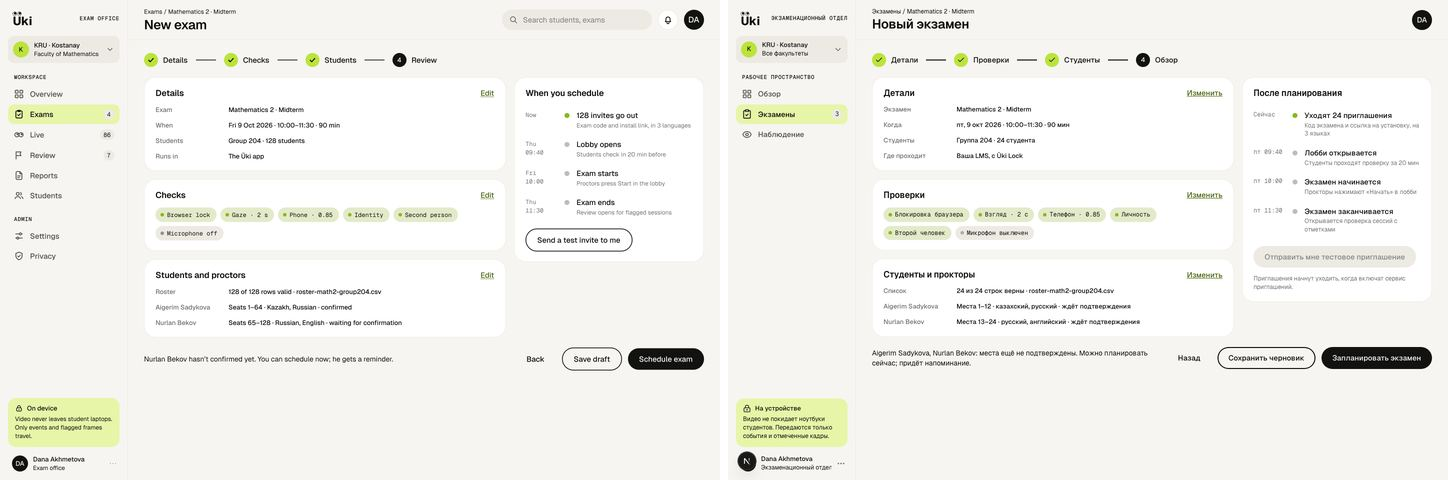
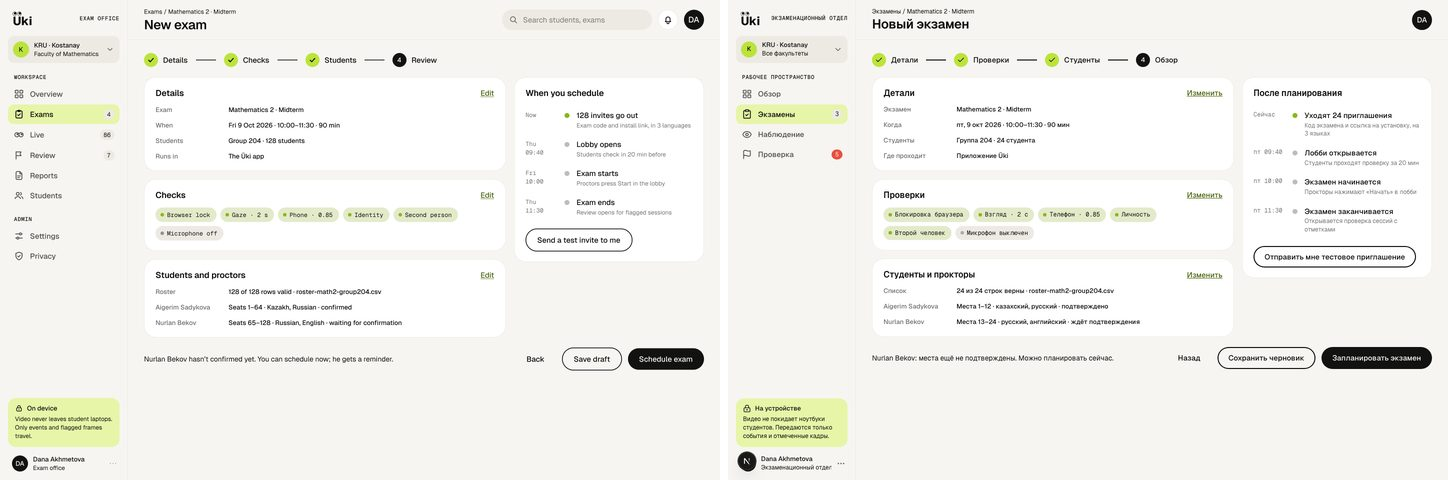
docs: 1.3 evidence with the invites on, and the decisions they needed
Records the checks on main at ad8db6b: the test invite, the send after
Schedule exam, Resend and the 0.3b resend through the Resend stub; the
hidden reminder line; untitled drafts off 0.1; 0.1's roster link. New
comparisons: 0.5 and 0.5 in Russian again, 0.3 scheduled and after a
refused send, 0.3b after Save, 0.1 with the link, in Russian and after
a failed send.

diff --git a/docs/phase-1-exit.md b/docs/phase-1-exit.md
@@ -290,41 +290,55 @@ Branch `wp/1.9-report-sharing` (PR #21), built on the evening of 8 October again
 
 ## 1.3 Exam wizard
 
-Branch `wp/1.3-wizard` (PR #16, draft while the package runs to Sunday 11). Ran on the development MacBook against a third local Supabase stack, project `uki-w13` on ports 548xx with CLI 2.107.0, and `next dev` on port 3401, so the main stack on 547xx stayed untouched. The Figma comparisons put the frame on the left and the page on the right, both at 1440 × 960, scaled to half. The page shows the local stack's data: the demo roster has 24 students where the frames show 128, and only built sidebar items show. Every other difference is listed in the evidence column and logged in `docs/decisions.md` under “1.3 Exam wizard”.
+Branch `wp/1.3-wizard` (PR #16). Rebased onto main at ad8db6b (WP 1.4 Invites) and checked again on the development MacBook against a third local Supabase stack, project `uki-w13` on ports 548xx with CLI 2.107.0 and supabase-edge-runtime 1.74.1, so the main stack on 547xx stayed untouched. `supabase functions serve` loaded an env file whose `RESEND_BASE_URL` pointed at the Resend stub on port 54890, and the integration tests, the e2e and the screenshot run started that stub (`test/integration/resend-stub.ts`): no email left the machine. `next dev` ran on port 3401. The Figma comparisons put the frame on the left and the page on the right, both at 1440 × 960, scaled to half. The page shows the local stack's data: the demo roster has 24 students where the frames show 128, and only built sidebar items show. Every other difference is listed in the evidence column and logged in `docs/decisions.md` under “1.3 Exam wizard”.
 
 | Check | Status | Evidence | Date |
 | --- | --- | --- | --- |
 | Routes `/exams/new` and `/exams/[examId]/edit/{details,checks,browser,roster,review}` with one draft row from step 1 | pass | Thin pages under `apps/web/src/app/(app)/exams/`; logic in `apps/web/src/features/wizard/` (`wizard-data.ts`, `wizard-model.ts`, `roster-csv.ts`, the views). A proctor gets a 404, a scheduled exam only its roster page, a live one its lobby (`allowedStep`, unit-tested) | 2026-10-08 |
 | Every step saves; a refresh loses nothing | pass | `e2e/wizard.spec.ts`: Identity check switched off on 0.2 is in `exams.checks` and still off after a reload; Back to 0.4 shows the title typed before | 2026-10-08 |
 | The demo CSV shows its bad rows on 0.3a and nothing is written | pass | `demo/roster.csv`: 24 students of group 204 from the seed, six with 0.3a's problems (a 7-digit number, an empty group, an unknown group 240, an address without @, a number twice, an empty name). e2e and `wizard-views.test.tsx` see the six rows with their messages and no `exam_students` row | 2026-10-08 |
-| Fixed through Edit (0.3b's panel), then imported; importing twice adds no duplicates | pass | e2e: the six fixes import 24 students; the fixed file imported again leaves 24 roster rows, and both `roster.import` audit rows read inserted 0, updated 24, seats 24, removed 0. `15_wizard_1_3` imports the same 24 twice | 2026-10-08 |
+| Fixed through Edit (0.3b's panel), then imported; importing twice adds no duplicates | pass | e2e: the six fixes import 24 students; the fixed file imported again leaves 24 roster rows, and both `roster.import` audit rows read inserted 0, updated 24, seats 24, removed 0. `16_wizard_1_3` imports the same 24 twice | 2026-10-08 |
 | Proctors: `assign_proctors`, gaps and overlaps refused | pass | e2e: Aigerim 1–12 and Nurlan 13–24 stored; moving Nurlan to 10 shows "Seats 10–12 are given to two proctors." and nothing changes. Unit tests for `seatProblem`, `parseSeatError`, `nextSeatRange` | 2026-10-08 |
-| `assign_proctors` works through PostgREST | pass | Found while building 0.3: the API refused it ("DELETE requires a WHERE clause", pg-safeupdate). New migration `20261010010000_assign_proctors_safeupdate.sql`; `15_wizard_1_3` checks no function in `public` deletes without WHERE | 2026-10-08 |
+| `assign_proctors` works through PostgREST | pass | Found while building 0.3: the API refused it ("DELETE requires a WHERE clause", pg-safeupdate). Migration `20261011090000_assign_proctors_safeupdate.sql` (renamed from `20261010010000_…` before the merge, so it sorts after main's `20261010060000_help_topics.sql`); `16_wizard_1_3` checks no function in `public` deletes without WHERE | 2026-10-08 |
 | Schedule exam returns to 0.1 with a code; errors link to their step | pass | e2e: the toast reads "Exam scheduled. Students join with the code MATH2-204-FRI2." (MATH2-204-FRI is the seed's) and the exam is `scheduled` with that code. `wizard-views.test.tsx`: `roster_empty` shows with a link to the Students step | 2026-10-08 |
-| Timed: New exam to the code | pass (automated) | e2e 12.6 s with every step, both imports and the overlap check (6.6 s on an idle host). The exit criterion's 5 minutes by hand is the next row | 2026-10-08 |
+| Schedule exam sends every invite through `send-invites` | pass | e2e: the stub receives one batch of 24 emails, one to each address of the fixed demo file, each with the code in its text; all 24 `invites` rows are `sent`; 0.1 shows no "did not go out" toast | 2026-10-08 |
+| Invites that did not go out are counted on 0.1 and lead to the roster | pass | With the stub refusing the batch (422): 0.1 shows "24 invites did not go out. The roster says why." with Open roster, which opens the exam's 0.3 at Needs a fix · 24, each row Not sent · error with Fix email (comparisons below). `parseScheduledNotice` and `scheduledHref` unit-tested, including a forged query string | 2026-10-08 |
+| Send a test invite (0.5) | pass | e2e: one email, to Dana's sign-in address only, with the exam's title in the subject; every invite of the exam is still `pending`. The button is disabled with its reason on an empty roster (send-invites writes the test for seat 1), and a failed send says so (`wizard-views.test.tsx`) | 2026-10-08 |
+| Resend (0.3) | pass | e2e: Resend on Aigerim Baimukhanova's sent invite: exactly one more email, to her address; the toast reads "The invite went out again to Aigerim Baimukhanova." A refused resend says so (`wizard-views.test.tsx`) | 2026-10-08 |
+| A bounced address fixed through 0.3b is resent | pass | e2e, on the scheduled exam: Kairat's invite set to `bounced` (the webhook is Phase 2), Fix email with the scheduled helper, Save: one email to the new address, the invite `sent` with it, the row Sent · not opened | 2026-10-08 |
+| The seeded bounced address, reached from 0.1, fixed through 0.3b and resent | pass (local) | Screenshot run on `uki-w13`: 0.1's readiness card for Mathematics 2 reads "Roster 127 of 128" and "Fix 1 address" (exam office only, `overview-view.test.tsx`); it opens Mathematics 2's roster; Yerlan Tokhtarov's Fix email saves `yerlan.tokhtarov@student.kru.test` and the stub receives his invite; the row reads Sent · not opened and Needs a fix · 0 (comparison below) | 2026-10-08 |
+| The same with real email, in your inbox | pending | You, on the cloud project after `pnpm supabase:deploy` and the secrets in `docs/runbooks/cloud-setup.md` (WP 1.4's hand check): a test invite from 0.5, then the seeded bounced address fixed from 0.1 | |
+| 0.5 promises no reminder | pass | The footer reads "Nurlan Bekov hasn’t confirmed yet. You can schedule now." in English and "…Можно планировать сейчас." in Russian; no reminder email exists in Phase 1 (decisions). `wizard-views.test.tsx` checks the line and that no "reminder" shows | 2026-10-08 |
+| Untitled drafts stay off 0.1 | pass | `overview-model.test.ts`: a draft with an empty title is left out, a titled draft and a scheduled exam stay. Screenshot run: New exam, then back to 0.1: the same five rows and Upcoming 2 | 2026-10-08 |
+| Timed: New exam to the code | pass (automated) | e2e 6.2 s with every step, both imports, the overlap check and the test invite; 8.3 s for the whole test with 0.3b and Resend. The exit criterion's 5 minutes by hand is the next row | 2026-10-08 |
 | The exam office creates and schedules an exam by hand in under 5 minutes | pending | You, on the cloud project after the deploy, with `demo/roster.csv` | |
-| Send a test invite (0.5), Resend (0.3), the resend after 0.3b | not-run | `send-invites` is WP 1.4 (Saturday). The calls are wired to the plan's input and disabled with their reason while `SEND_INVITES_READY` is false (`wizard-views.test.tsx`) | 2026-10-08 |
-| 0.3b on the seeded bounced address | pass (local) | Mathematics 2's Yerlan Tokhtarov opens "Fix Yerlan’s email" with "This mailbox doesn’t exist." and the old address struck through (comparison below). Save upserts the invite to `pending`; resending waits for WP 1.4 | 2026-10-08 |
 | New exam for the exam office on 0.1; Phase 2's 0.6 and 0.7 stay hidden | pass | `overview-view.test.tsx`: New exam shows for the exam office and not for a proctor; a draft's row opens its wizard for the office. Import CSV stays hidden; no exam detail (0.6) or question bank (0.7) link exists. The Exams item is current on the wizard's routes (`activeNav`) | 2026-10-08 |
-| Every wizard page renders in Russian with no missing key | pass | `apps/web/src/features/wizard/wizard-views.test.tsx` (14 tests, 7 in Russian): 0.4 with the date picker open, 0.2 with 0.2a and the preview in Kazakh, E.1, 0.3 with 0.3b, 0.3a with Edit open, Add proctor, 0.5 with a schedule problem. Each fails on any next-intl error or raw key | 2026-10-08 |
-| Unit tests | pass | `wizard-model.test.ts` 31 (steps, Almaty dates, choices, proctors, invites, review, the code), `roster-csv.test.ts` 10 (headers, BOM, no header, no language column, limits, the demo file's six problems and their fixes, Skip, the error report) | 2026-10-08 |
-| A clean reset with the new migration | pass | `supabase db reset --workdir` on `uki-w13`: 13 Phase 0 migrations, `20261009000000_phase1.sql`, `20261010010000_assign_proctors_safeupdate.sql`, then `seed.sql`, no error | 2026-10-08 |
-| pgTAP 01 to 15 | pass | `supabase test db` on `uki-w13`: 15 files, 767 tests; `15_wizard_1_3` adds 10 | 2026-10-08 |
-| `pnpm check` | pass | Exit 0: Biome 803 files, guards 832 files, turbo 22/22 tasks (web 245 tests, 35 files), functions-unit 61, scripts 83 | 2026-10-08 |
-| `pnpm test:integration` against the third stack | pass | 16 files, 86 tests, with `supabase functions serve` on `uki-w13` | 2026-10-08 |
-| `pnpm e2e` | pass | 6/6 against `next dev -p 3401` and `uki-w13` (4 Phase 0 tests, the language test, the wizard) | 2026-10-08 |
-| CI on the pull request | pass (draft) | Push run 37775975035 at 560da48: every job passed (lint, guards, types and unit tests; database, functions, desktop flow and dashboard e2e with `15_wizard_1_3` and `e2e/wizard.spec.ts`, New exam to the code in 23.8 s on the runner; the builds; the macOS dmgs; Windows; the secret scan). The pull-request run at 813639f had one unit test time out at Vitest's 5 s default on the loaded runner (0.4 with the date picker); the view tests now allow 30 s. Vercel's two previews are rate-limited by the Vercel account, outside this change. Merge waits for Sunday | 2026-10-08 |
-| The cloud project has the new migration | pending | `pnpm supabase:deploy` after the merge (P.2) | |
+| Every wizard page renders in Russian with no missing key | pass | `apps/web/src/features/wizard/wizard-views.test.tsx` (19 tests, 9 in Russian): 0.4 with the date picker open, 0.2 with 0.2a and the preview in Kazakh, E.1, 0.3 with 0.3b, 0.3a with Edit open, Add proctor, 0.5 with a schedule problem, 0.1 after Schedule exam with invites that did not go out and the roster link, and 0.3's Resend toast. Each fails on any next-intl error or raw key | 2026-10-08 |
+| The wizard's schemas come from `@uki/contracts` | pass | `features/wizard/send-invites.ts` and `SEND_INVITES_READY` are gone; `SendInvitesInput` and `SendInvitesOutput` (WP 1.4), `FixInviteEmailInput` and `ResendInviteInput` (`wizard.ts`, tested in `wizard.test.ts`) check each call before it leaves and each reply | 2026-10-08 |
+| Unit tests | pass | `wizard-model.test.ts` 32 (steps, Almaty dates, choices, proctors, invites, review, the code, the scheduled notice), `roster-csv.test.ts` 10, `overview-model.test.ts` 15, `overview-view.test.tsx` 8 | 2026-10-08 |
+| A clean reset with the renamed migration | pass | `supabase db reset --workdir` on `uki-w13`: 13 Phase 0 migrations, `20261009000000_phase1.sql`, `20261010060000_help_topics.sql`, `20261011090000_assign_proctors_safeupdate.sql`, then `seed.sql`, no error | 2026-10-08 |
+| pgTAP 01 to 16 | pass | `supabase test db` on `uki-w13`: 16 files, 781 tests; `16_wizard_1_3` adds 10 | 2026-10-08 |
+| `pnpm check` | pass | Exit 0: Biome 865 files, guards 899 files, turbo 22/22 tasks (contracts 455 tests, web 310), functions-unit 97, scripts 83 | 2026-10-08 |
+| `pnpm test:integration` against the third stack | pass | 21 files, 137 tests, with `supabase functions serve` on `uki-w13` and the stub on 54890 (`UKI_FUNCTIONS_ENV_FILE`) | 2026-10-08 |
+| `pnpm e2e` | pass | 9/9 against `next dev -p 3401` and `uki-w13`: the 4 dashboard tests, help, language, the 2 review tests and the wizard | 2026-10-08 |
+| CI on the pull request | see the PR | | |
+| The cloud project has the migration | pending | `pnpm supabase:deploy` after the merge (P.2) | |
 | Figma 0.4 `158:12473` (details, date picker open) | pass | ![0.4](evidence/phase-1/1.3/0.4.jpg) Same cards, fields, chips, radio cards, At a glance and picker. Differences: the picker's footer time is a typed field; search and bell hidden (Phase 0) | 2026-10-08 |
 | Figma 0.4 in Russian | pass | ![0.4 ru](evidence/phase-1/1.3/0.4-ru.jpg) Fits; the month reads «Октябрь 2026 г.» from Intl | 2026-10-08 |
 | Figma 0.2 `51:2048` (checks) | pass | ![0.2](evidence/phase-1/1.3/0.2.jpg) Same rows, thresholds, preview and privacy card. Differences: the gaze, phone and second-person switches are fixed and drawn disabled; the preview lines are the app's own 1.4 strings; the browser-lock icon is the kit's GlobeLock | 2026-10-08 |
 | Figma 0.2a `85:6315` (gaze threshold info) | pass | ![0.2a](evidence/phase-1/1.3/0.2a.jpg) Popover/Info over the gaze field with Strict, Default and Calm. "How gaze control works" is hidden (no page) | 2026-10-08 |
 | Figma E.1 `99:10209` (browser rules) | pass | ![E.1](evidence/phase-1/1.3/E.1.jpg) Same sections, chips, rules card and Lock popup. Differences: developer tools and screen sharing are fixed with Phase 0's labels; Pause other extensions, the popup's Other extensions row and Test as a student are hidden (Phase 2, Phase 0, no Phase 1 path) | 2026-10-08 |
 | Figma 0.3 `51:2050` (roster and proctors) | pass | ![0.3](evidence/phase-1/1.3/0.3.jpg) Same file card, proctors card and table. Differences: 24 rows; the third tab is Needs a fix; chips read Not sent before the invites go out and Not confirmed until 0.9a | 2026-10-08 |
+| Figma 0.3 on the scheduled exam | pass | ![0.3 scheduled](evidence/phase-1/1.3/0.3-scheduled.jpg) After Schedule exam, with one invite set to bounced: Sent · not opened chips with Resend, Email bounced with Fix email, as the frame draws them. Differences: Opened never shows (opens are not tracked); the demo file's new students have no programme line | 2026-10-08 |
+| Figma 0.3 after a refused send | pass | ![0.3 failed](evidence/phase-1/1.3/0.3-failed.jpg) Reached from 0.1's Open roster: Needs a fix · 24, each row Not sent · error with Fix email. No frame draws a failed send | 2026-10-08 |
 | Figma 0.3a `160:12932` (roster errors) | pass | ![0.3a](evidence/phase-1/1.3/0.3a.jpg) Same error card, rows, actions and disabled Next: review. Difference: each bad row has Edit (the plan's 0.3b panel) | 2026-10-08 |
 | Figma 0.3a in Russian | pass | ![0.3a ru](evidence/phase-1/1.3/0.3a-ru.jpg) | 2026-10-08 |
 | Figma 0.3b `160:13301` (fix email) | pass | ![0.3b](evidence/phase-1/1.3/0.3b.jpg) On the seeded Mathematics 2, searched to Yerlan's row: same panel, struck address, field, helper, checkbox and buttons. The helper is the scheduled exam's | 2026-10-08 |
-| Figma 0.5 `159:12771` (review) | pass | ![0.5](evidence/phase-1/1.3/0.5.jpg) Same three summaries, chips, timeline and footer. Differences: the test invite is disabled with its reason (WP 1.4); the footer names every unconfirmed proctor | 2026-10-08 |
-| Figma 0.5 in Russian | pass | ![0.5 ru](evidence/phase-1/1.3/0.5-ru.jpg) | 2026-10-08 |
+| Figma 0.3b, after Save on the seeded bounced address | pass | ![0.3b resent](evidence/phase-1/1.3/0.3b-resent.jpg) Frame left with the panel open; page right after Save: Yerlan's invite went out again and his row reads Sent · not opened with Resend | 2026-10-08 |
+| Figma 0.5 `159:12771` (review) | pass | ![0.5](evidence/phase-1/1.3/0.5.jpg) Compared again with the invites on: same three summaries, chips, timeline, the enabled Send a test invite to me and the footer's buttons. Difference: the footer ends at "You can schedule now." (no reminder in Phase 1); the frame's lobby time reads Thu, the exam's day is Fri | 2026-10-08 |
+| Figma 0.5 in Russian | pass | ![0.5 ru](evidence/phase-1/1.3/0.5-ru.jpg) The test invite button fits on one line | 2026-10-08 |
+| Figma 0.1 `51:2046` with the roster link | pass | ![0.1](evidence/phase-1/1.3/0.1.jpg) The readiness card counts Yerlan's bounced invite (127 of 128) and ends with "Fix 1 address →", drawn like Open lobby; the card keeps its height. Not in the frame, whose roster is complete (decisions). Import CSV stays hidden | 2026-10-08 |
+| Figma 0.1 in Russian | pass | ![0.1 ru](evidence/phase-1/1.3/0.1-ru.jpg) «Исправить 1 адрес» fits | 2026-10-08 |
+| Figma 0.1 after a send that failed | pass | ![0.1 unsent](evidence/phase-1/1.3/0.1-unsent.jpg) The code toast and, under it, the error toast with Open roster, the kit's Toast with its action | 2026-10-08 |
 
-Left for Saturday and Sunday: turn on the invite calls with WP 1.4's `send-invites` and check the test invite and the 0.3b resend; the timed run by hand on the cloud project; CI and the merge.
+WP 1.4's open row "0.5, 0.3 and 0.3b call `send-invites`" is answered by the rows above. Left for you: the timed run by hand and the real inbox, both on the cloud project after the deploy.

diff --git a/docs/decisions.md b/docs/decisions.md
@@ -944,8 +944,19 @@ Decided by the WP 1.3 agent while building 0.4, 0.2, 0.2a, E.1, 0.3, 0.3a, 0.3b 
 - Reading the roster writes one `audit_log` row (`roster.view` on the exam) through `audit_read`.
 
 **send-invites (WP 1.4)**
-- Send a test invite (0.5), Resend (0.3) and the resend after 0.3b's Save call `send-invites` with the plan's input (`exam_id`, optional `student_ids[]`, or `test: true`) and read `sent` and `failed[]`. The function does not exist yet, so `SEND_INVITES_READY = false` in `features/wizard/wizard-model.ts` keeps them disabled with "Invites go out once the invite service is switched on." WP 1.4 turns the flag on and moves the schemas from `features/wizard/send-invites.ts` into `packages/contracts`; Schedule exam then also sends the invites.
-- 0.5's footer for an unconfirmed proctor keeps the frame's promise of a reminder, worded without a pronoun ("they get a reminder"). No reminder email is built in Phase 1; WP 1.4 or 1.5 should either send one or the line should change.
+- The wizard calls WP 1.4's `send-invites` as the signed-in exam office member, with `SendInvitesInput` and `SendInvitesOutput` from `@uki/contracts`. `SEND_INVITES_READY` and the wizard's own copy of those schemas (`features/wizard/send-invites.ts`) are gone, so nothing can switch the invites off again by mistake. 0.3b's input and the Resend input are contracts too (`FixInviteEmailInput`, `ResendInviteInput` in `wizard.ts`). The PostgREST row shapes the wizard reads (`RosterEntry`, `WizardGroup`, `WizardProctor`) stay next to their queries, as every other dashboard feature keeps its rows.
+- Send a test invite (0.5) sends `{ exam_id, test: true }`. send-invites writes it for the roster's first student and answers 409 on an empty roster, so the button is disabled until the roster has a student, with "The test invite is written for the first student, so it waits for the roster." (`review.testInviteNeedsRoster`, a new key in place of `review.invitesUnavailable`). The toast says sent only when the reply has one email sent and nothing failed.
+- Schedule exam runs `schedule_exam`, then `send-invites` with `{ exam_id }`, then returns to 0.1. The exam stays scheduled whatever the send does. The action then counts the exam's invites that are not `sent` (under RLS, so a call that failed as a whole counts every invite) and, when there are any, 0.1's address carries `&exam=<id>&unsent=<n>`: a second toast says "N invites did not go out. The roster says why." with Open roster, which opens 0.3 for that exam, where each such row reads Not sent · error or Email bounced and has Fix email. New keys: `overview.unsent`, `overview.openRoster`. The query string is checked (`parseScheduledNotice`): the code with the contracts' `ExamCode`, the exam with `Uuid`, the count as a whole number up to the roster limit.
+- 0.3's Resend sends `{ exam_id, student_ids: [id] }` (`resendInvite`) and says the outcome in a toast (`roster.resent`, `roster.resendFailed`, new keys); the row's chip follows after the refresh.
+- 0.3b's Save puts the invite back to `pending` with the new address (as before), and on a scheduled exam then calls send-invites with that student's id, so the fixed address gets its invite at once; the row then reads Sent · not opened, or Not sent · error with the reason. A draft's invite waits for Schedule exam.
+- **0.1 links a bounced invite to its roster.** A scheduled exam opens only its roster page in the wizard, but no frame leads there, so the exit criterion's "the seeded bounced address is fixed through 0.3b and resent" had no way in except the address bar. 0.1's readiness card already counts the next exam's bounced invites ("Roster 127 of 128"); for the exam office it now ends with "Fix 1 address →" to that exam's roster, drawn like the next-exam card's Open lobby, only while an invite has bounced (`wizard.overview.fixRoster`, a new key; added, not in Figma). Proctors do not get it: the wizard is the exam office's.
+
+**0.5's footer and the reminder**
+- **The reminder promise is hidden.** 0.5's footer for an unconfirmed proctor read "…You can schedule now; they get a reminder." No reminder email exists in Phase 1 (send-invites mails students only, and WP 1.5's 0.9a has no reminder), so the line now ends at "You can schedule now." (`review.footerWaiting`, in English and Russian). The frame's ", he gets a reminder" returns when a reminder is built, in Phase 2 at the earliest.
+
+**Untitled drafts on 0.1**
+- New exam makes the draft before 0.4 has a title, so a draft the exam office leaves at once would be a row on 0.1 with no name, no course and no groups, linking to a wizard nobody remembers. 0.1 leaves a draft with an empty title out of the table and the Upcoming count (`shownOnOverview`, applied where the rows are parsed, so the sidebar's counts agree). A draft shows again once it has a title. The empty drafts stay in the database; seed v2's `pnpm demo:reset` (WP 1.14) is to delete the exams the wizard made, these included.
 
 **Database**
-- `assign_proctors` emptied its scratch table with a bare `DELETE`, which PostgREST's pg-safeupdate refuses, so the dashboard could never save a proctor; pgTAP did not see it because it runs outside PostgREST. `20261010010000_assign_proctors_safeupdate.sql` replaces the function with `where true` on that statement and nothing else. `15_wizard_1_3` checks that no function in `public` deletes without a WHERE clause.
+- `assign_proctors` emptied its scratch table with a bare `DELETE`, which PostgREST's pg-safeupdate refuses, so the dashboard could never save a proctor; pgTAP did not see it because it runs outside PostgREST. `20261011090000_assign_proctors_safeupdate.sql` replaces the function with `where true` on that statement and nothing else. `16_wizard_1_3` checks that no function in `public` deletes without a WHERE clause.
+- The migration was written as `20261010010000_…` and renamed before the merge to `20261011090000_…`, so it sorts after every migration on main (`20261010060000_help_topics.sql` landed meanwhile) and `supabase db push` accepts it; its pgTAP file became `16_wizard_1_3`, since main has `15_ask_proctor`. It was never on main under the old name.
